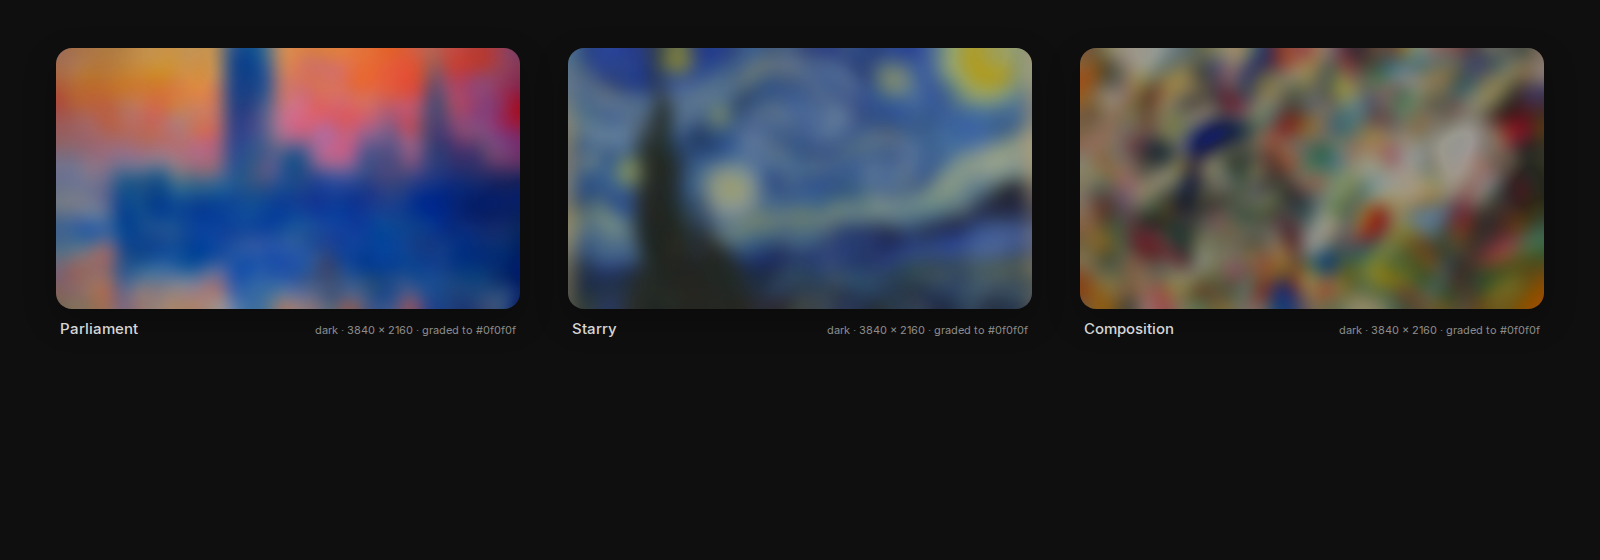
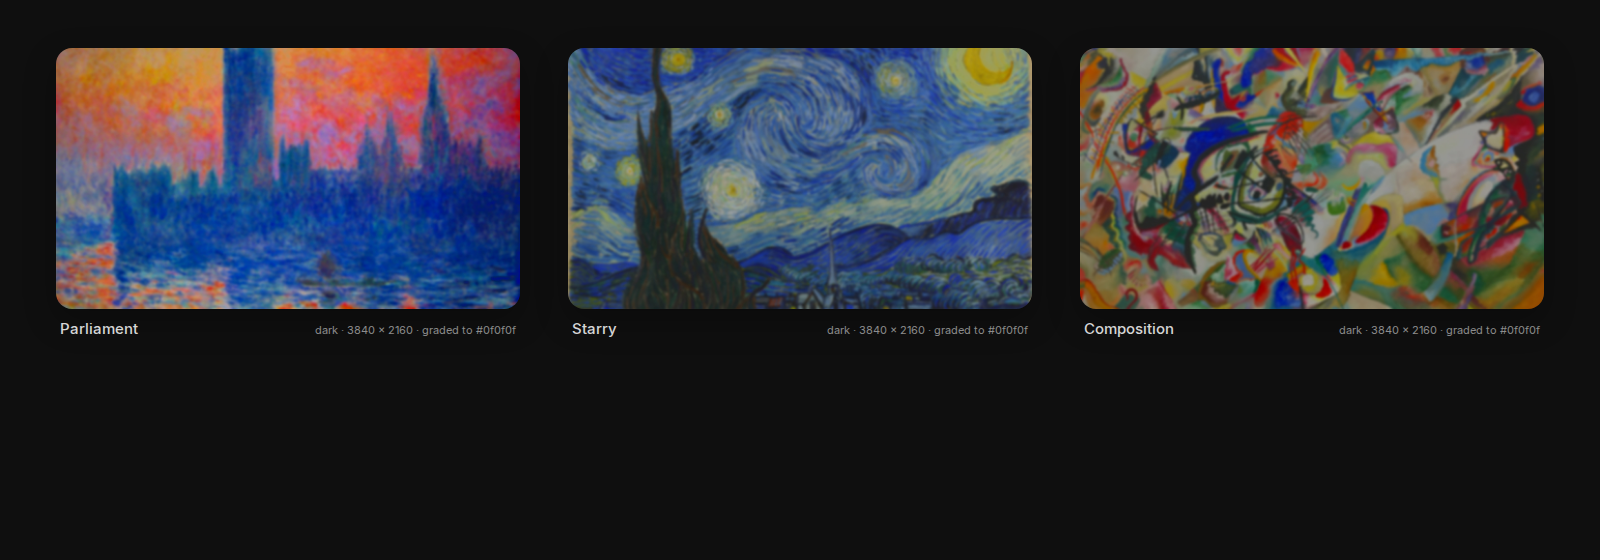
Backgrounds keep the painting: full-resolution grading with a light blur
The grader works at 3840 × 2160 now instead of at 960 × 540 and
upsampling, and the blur is 0.4 % of the height (about 9 px) with
--blur to change it or turn it off. Monet's Parliament, Van Gogh's
Starry Night and Kandinsky's Composition VII stay recognisable; the
luminance band and the grain are unchanged, so the bar still reads.

Claude-Session: https://claude.ai/code/session_017caxMJD9sdbPw1WF3LGrYR

Changed region(s): [[0.0312, 0.0607, 0.9688, 0.5768], [0.5938, 0.2429, 0.625, 0.3036]]

diff --git a/tools/background.py b/tools/background.py
@@ -1,9 +1,9 @@
 #!/usr/bin/env python3
 """Marvin backgrounds.
 
-Turns a source painting into a wallpaper the system can sit on: blurred past
-recognition, then graded toward the theme's ground so the bar and every card
-read as surfaces over it rather than against it.
+Turns a source painting into a wallpaper the system can sit on: softened a
+little, then graded toward the theme's ground so the bar and every card read
+as surfaces over it rather than against it. The painting stays recognisable.
 
     tools/background.py --source path/to/painting.jpg --name lilies
     tools/background.py --palette lilies          # no source: synthesize a field
@@ -12,8 +12,8 @@ Outputs backgrounds/<n>-<name>.jpg (dark) and light/backgrounds/<n>-<name>.jpg.
 Needs Pillow and numpy.
 
 Grading, per tone:
-  1. blur hard (radius ~ 1/16 of the short edge), so only the colour field is left
-  2. pull saturation down — a wallpaper is ground, not accent
+  1. a light blur (--blur, a fraction of the height; 0.004 by default, 0 for none)
+  2. push saturation up a little, so the field stays rich under the grading
   3. mix toward the theme ground colour, then clamp luminance into a band that
      keeps the bar (dark #161616 / light #f5f5f5) readable over it
   4. add fine grain so the gradients do not band
@@ -65,18 +65,21 @@ def synthesize(palette, seed):
 
 def prepare_source(path):
     im = Image.open(path).convert("RGB")
-    # cover-crop to 16:9, then work small
+    # cover-crop to 16:9 at output resolution: the painting keeps its brushwork
     w, h = im.size
     target = WORK_W / WORK_H
     if w / h > target:
         nw = int(h * target); im = im.crop(((w - nw) // 2, 0, (w - nw) // 2 + nw, h))
     else:
         nh = int(w / target); im = im.crop((0, (h - nh) // 2, w, (h - nh) // 2 + nh))
-    return im.resize((WORK_W, WORK_H), Image.LANCZOS)
+    return im.resize((OUT_W, OUT_H), Image.LANCZOS)
 
-def grade(im, tone, seed):
+def grade(im, tone, seed, blur=0.004):
     t = TONES[tone]
-    im = im.filter(ImageFilter.GaussianBlur(radius=WORK_H / 30))
+    if im.size != (OUT_W, OUT_H):
+        im = im.resize((OUT_W, OUT_H), Image.BICUBIC)   # synthesized fields come in small
+    if blur > 0:
+        im = im.filter(ImageFilter.GaussianBlur(radius=OUT_H * blur))
     a = np.asarray(im, dtype=np.float32) / 255
     # saturation
     grey = a.mean(axis=2, keepdims=True)
@@ -93,9 +96,8 @@ def grade(im, tone, seed):
     gain = (target / np.maximum(L, 1e-4))[..., None]
     # apply gain in linear-ish space: cheap approximation via sqrt of gain on sRGB
     a = np.clip(a * np.sqrt(gain), 0, 1)
-    # upscale then grain
-    big = Image.fromarray((a * 255).astype(np.uint8)).resize((OUT_W, OUT_H), Image.BICUBIC)
-    b = np.asarray(big, dtype=np.float32)
+    # grain
+    b = a * 255
     rng = np.random.default_rng(seed + 1)
     b = np.clip(b + rng.normal(0, 1.6, b.shape).astype(np.float32), 0, 255)
     return Image.fromarray(b.astype(np.uint8))
@@ -107,6 +109,7 @@ def main():
     p.add_argument("--name", help="output name; defaults to the palette name or the source stem")
     p.add_argument("--index", type=int, default=1, help="ordering prefix in backgrounds/")
     p.add_argument("--seed", type=int, default=7)
+    p.add_argument("--blur", type=float, default=0.004, help="Gaussian radius as a fraction of the height; 0 for none")
     args = p.parse_args()
     if not args.source and not args.palette:
         p.error("give --source or --palette")
@@ -116,7 +119,7 @@ def main():
     for tone, t in TONES.items():
         out = root / t["out"] / f"{args.index}-{name}.jpg"
         out.parent.mkdir(parents=True, exist_ok=True)
-        img = grade(base, tone, args.seed)
+        img = grade(base, tone, args.seed, args.blur)
         img.save(out, "JPEG", quality=88, optimize=True, progressive=True)
         L = luminance(np.asarray(img, dtype=np.float32) / 255)
         print(f"{out.relative_to(root)}  {img.size[0]}x{img.size[1]}  L p1/p50/p99 = {np.percentile(L,1):.3f}/{np.percentile(L,50):.3f}/{np.percentile(L,99):.3f}  {out.stat().st_size//1024} KB")

diff --git a/backgrounds/README.md b/backgrounds/README.md
@@ -1,6 +1,6 @@
 # Backgrounds
 
-Three public-domain paintings, blurred into colour fields and graded to each
+Three public-domain paintings, lightly softened and graded to each
 tone by `tools/background.py`. The same three files exist under
 `light/backgrounds/`, graded to the light ground.
 
@@ -16,7 +16,8 @@ The reproductions were taken from the style images vendored in
 4032 × 3022. Faithful photographs of public-domain paintings carry no new
 copyright, so the graded files here are under this repository's MIT licence.
 
-Grading, per tone: Gaussian blur at 1/30 of the height, saturation × 1.3,
+Grading, per tone, at full 3840 × 2160: a Gaussian blur of 0.4 % of the
+height (about 9 px; `--blur 0` for none), saturation × 1.3,
 a 5–6 % mix toward the theme ground, luminance clamped into a band the bar
 stays readable over (dark 0.02–0.34, light 0.30–0.90), then fine grain
 against banding. Reproducible:

diff --git a/README.md b/README.md
@@ -233,14 +233,14 @@ travels with them in `plugins/LICENSE-omarchy`.
 ## Backgrounds
 
 The wallpaper is the ground the whole system sits on, so it is graded, not
-chosen: a painting blurred until nothing is recognisable, saturation pushed
-up so the field stays rich under the blur, mixed lightly toward the theme
+chosen: a painting softened only slightly, so the brushwork stays, saturation
+pushed up a little so the field stays rich, mixed lightly toward the theme
 ground, luminance clamped into a band the bar stays readable over, grain
 added against banding.
 
 Three paintings ship, chosen for the palette they share with the widgets —
-sky blue, navy, pale yellow, warm orange — and for colour that survives the
-blur:
+sky blue, navy, pale yellow, warm orange — and for colour that carries at
+desktop scale:
 
 | | Painting | Why |
 |---|---|---|

diff --git a/docs/principles.md b/docs/principles.md
@@ -210,7 +210,7 @@ the short step and workspaces get the long one, the inverse of upstream.
 
 ## Backgrounds
 
-Confirmed. A famous painting, public domain, blurred past recognition into a
+Confirmed. A famous painting, public domain, softened a little into a
 colour field, graded so it complements the palette: saturation up (1.5,
 the reference's imagery is rich, not pastel), mixed lightly toward the
 ground, luminance in a band the bar reads over (dark 0.02–0.34, light
